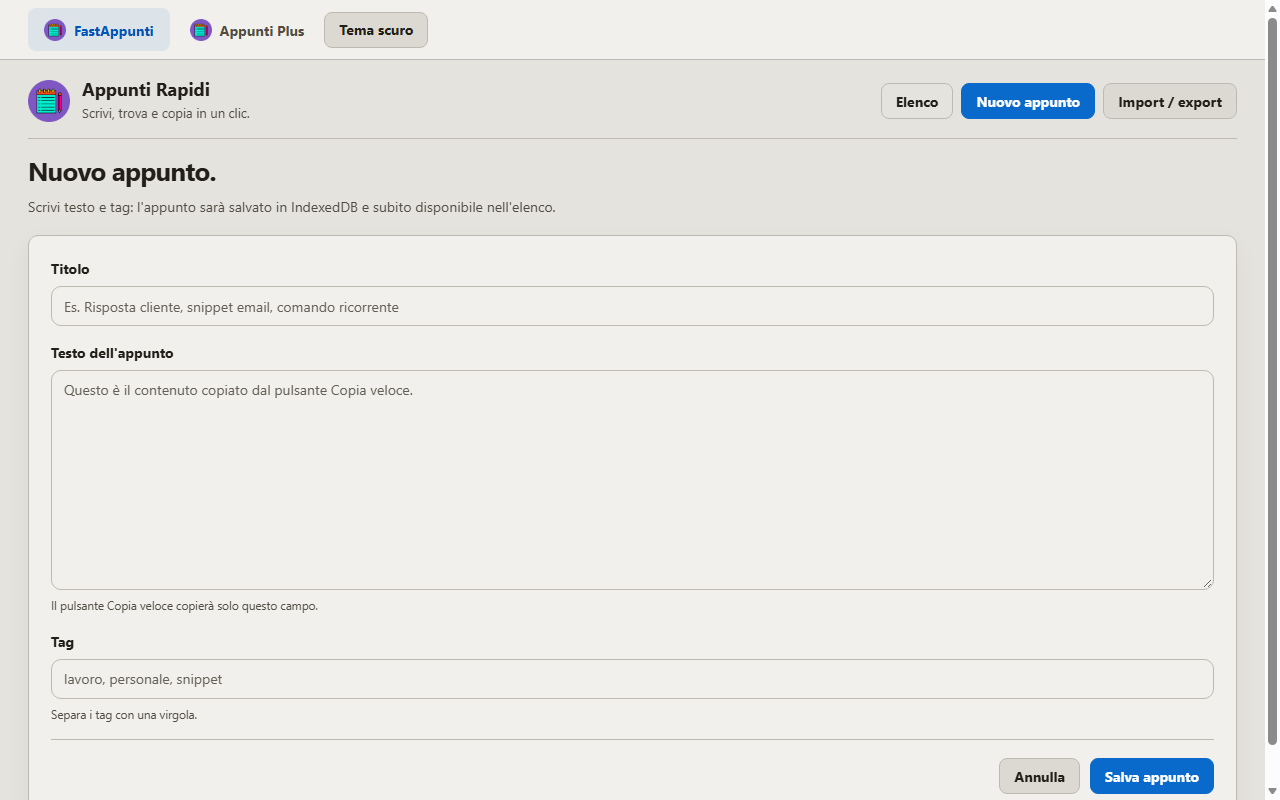
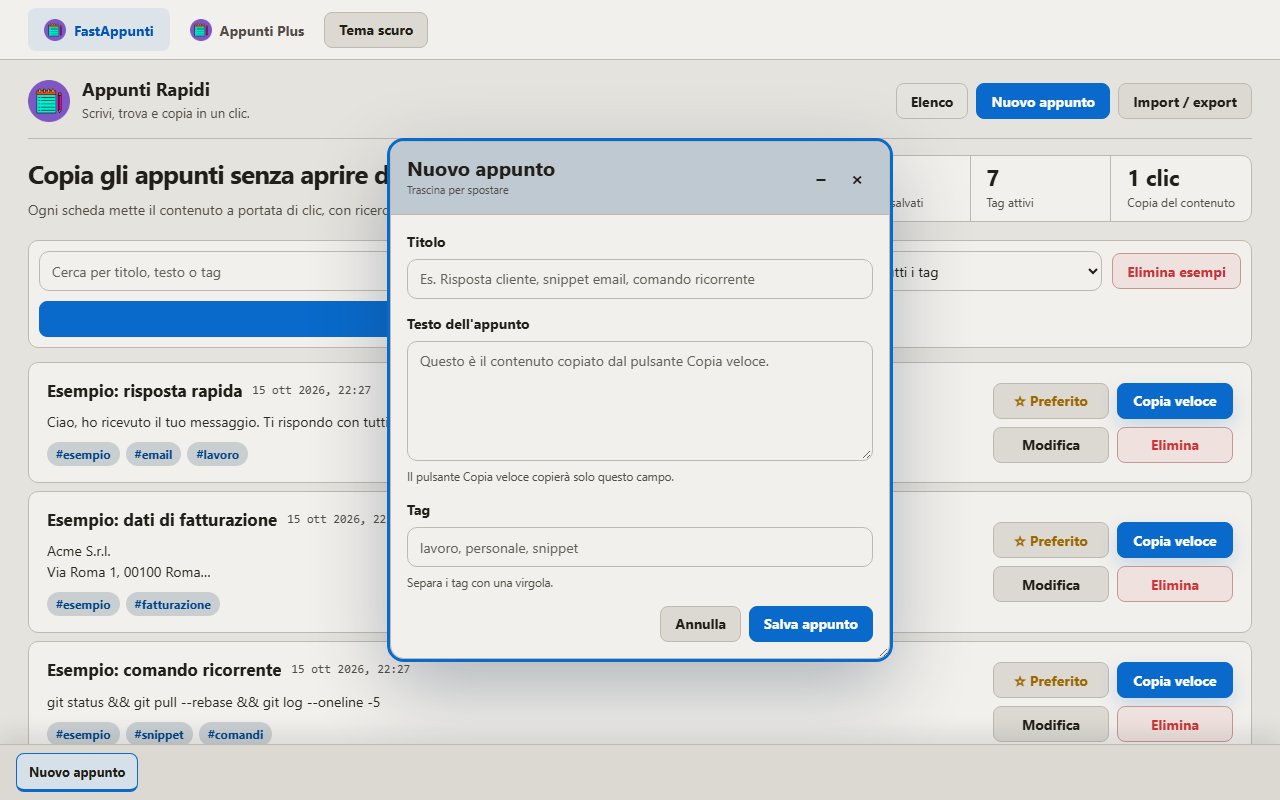
README: screenshots and highlight for the 2.6 windows

Changed region(s): [[0.0, 0.0312, 1.0, 1.0], [0.7812, 0.25, 0.8125, 0.2812], [0.75, 0.1875, 0.7812, 0.2188]]

diff --git a/README.md b/README.md
@@ -33,6 +33,14 @@ It is **two applications** in the same folder, linked by a bar at the top:
 
 > **Note:** the application interface is in Italian.
 
+### New in 2.6: work in windows
+
+Forms now open as **windows inside the page**: fill in several templates at once, minimize them to the **taskbar at the bottom** and pick them up again with one click. [See how it works ↓](#windows-and-taskbar)
+
+<p align="center">
+  <img src="docs/img/plus-windows.png" alt="Three Appunti Plus templates open as windows, one minimized in the bottom taskbar" width="85%" />
+</p>
+
 ---
 
 ## Everything runs on your computer
@@ -84,7 +92,7 @@ Create a note with a title, text and tags. From the list you copy it with **Copi
 - Light and dark theme (follows the system, or you choose)
 
 <p align="center">
-  <img src="docs/img/note-new.png" alt="Creating a new note" width="70%" />
+  <img src="docs/img/note-new.png" alt="Creating a new note in a window over the list" width="70%" />
 </p>
 
 ---
@@ -156,6 +164,11 @@ In both apps, the forms for entering data open as **windows inside the page**, l
 - The **active window** comes to the front and has a coloured outline. **Enter** only acts on that window, even when two or three are open.
 - A **taskbar at the bottom** lists every open window. Click a button to restore that window or bring it to the front. Click the active one again to minimize it.
 - Windows stay open while you switch views on the same page, for example to *Import / export*.
+
+<p align="center">
+  <img src="docs/img/notes-windows.png" alt="Appunti Rapidi: editing one note and writing a new one in two windows, a third minimized in the taskbar" width="49%" />
+  <img src="docs/img/plus-windows.png" alt="Appunti Plus: two templates filled in side by side, the active one outlined in blue" width="49%" />
+</p>
 
 ---
 
